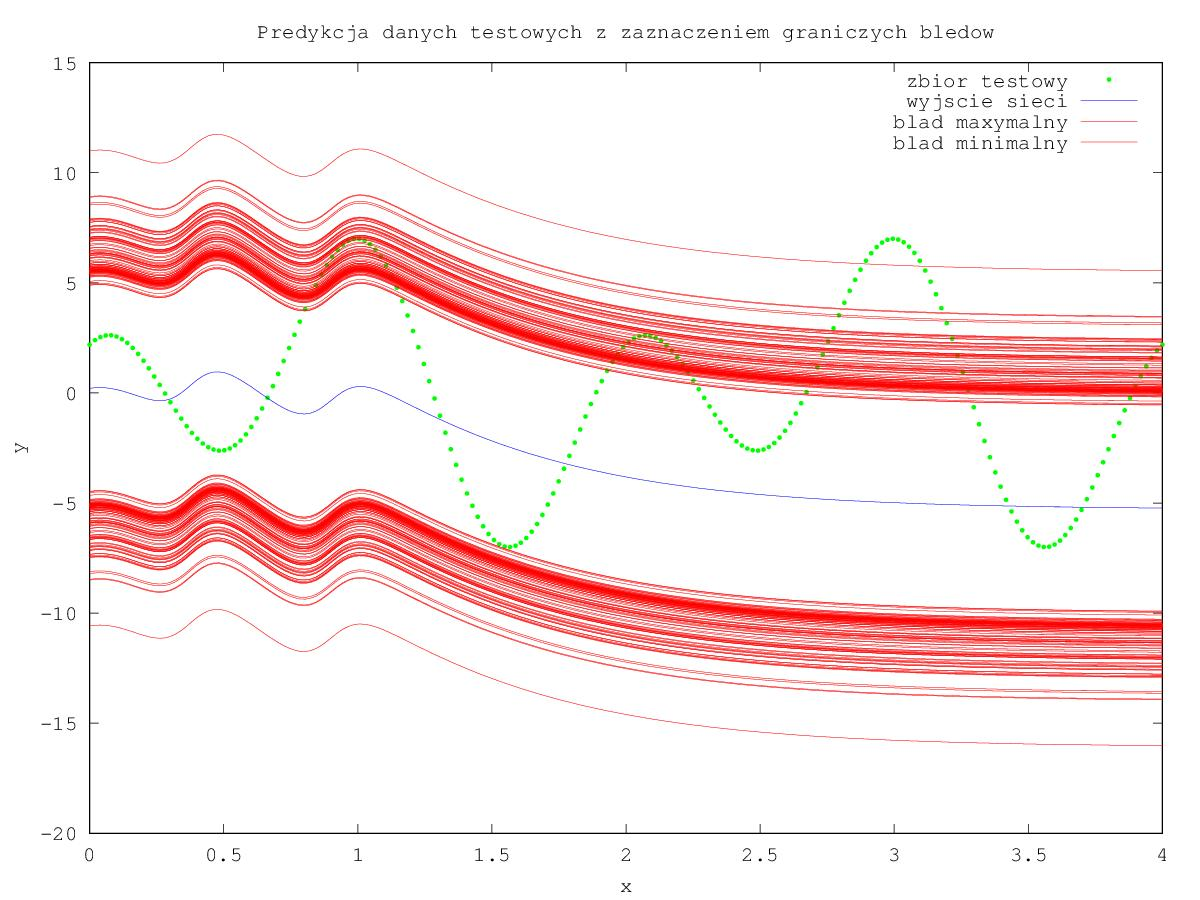
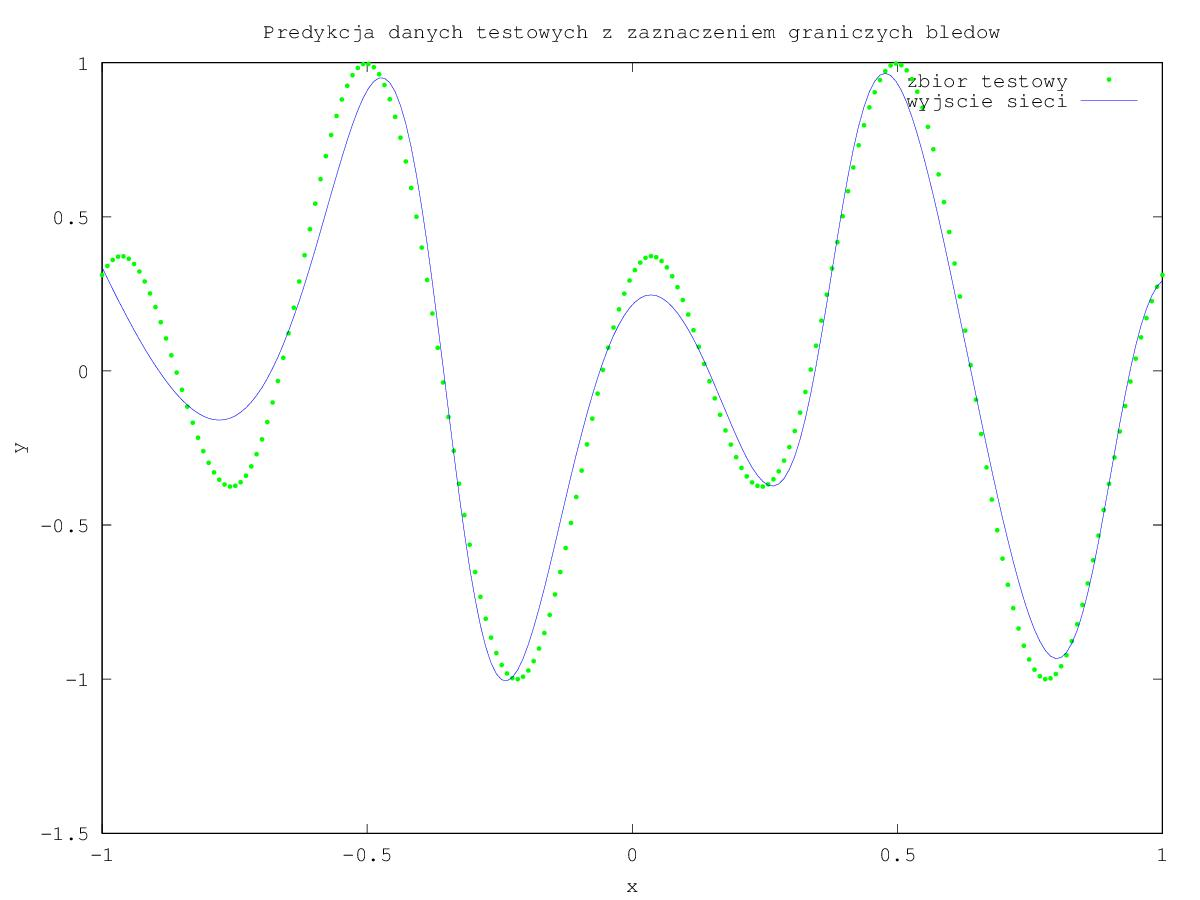
deadline 11

diff --git a/SNN/KK_snn_tests.m b/SNN/KK_snn_tests.m
@@ -16,6 +16,7 @@ mDane = load('snn_b.txt');
 mDane_test = load('snn_test.txt');
 
 mDane = normSet(mDane);
+mDane_test = normSet(mDane_test);
 % podzial zbioru na zbior uczacy i testowy
 [mTrain, mTest] = subset(mDane',1,1,1/2);
 mTrain = mTrain';
@@ -61,8 +62,8 @@ hold on;
 %tmp1 = sortrows(tmp1,1);
 plot(mDane_test(:,1), mDane_test(:,2), '.g');
 plot(mDane_test(:,1), y, 'b');
-plot(mDane_test(:,1),E_max, 'r');
-plot(mDane_test(:,1),E_min, 'r');
+%plot(mDane_test(:,1),E_max, 'r');
+%plot(mDane_test(:,1),E_min, 'r');
 xlabel ("x");
 ylabel ("y");
 title ('Predykcja danych testowych z zaznaczeniem graniczych bledow');
